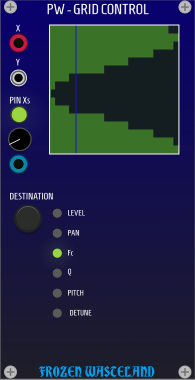
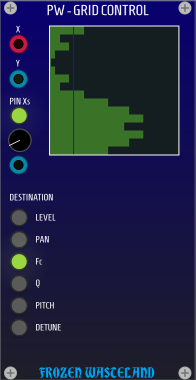
gce layout update

diff --git a/src/PWGridControlExpander.cpp b/src/PWGridControlExpander.cpp
@@ -11,7 +11,12 @@ struct PWGridControlExpander : Module {
     enum ParamIds {
         PIN_X_AXIS_MODE_PARAM,
         X_AXIS_PIN_POS_PARAM,
-        DESTINATION_PARAM,
+        DESTINATION_LEVEL_PARAM,
+        DESTINATION_PAN_PARAM,
+        DESTINATION_FC_PARAM,
+        DESTINATION_Q_PARAM,
+        DESTINATION_PITCH_PARAM,
+        DESTINATION_DETUNE_PARAM,
 		NUM_PARAMS
 	};
 
@@ -46,9 +51,9 @@ struct PWGridControlExpander : Module {
 
     OneDimensionalCells *gridCells;
 
-    dsp::SchmittTrigger pinXAxisModeTrigger,destinationTrigger;
+    dsp::SchmittTrigger pinXAxisModeTrigger,destinationTrigger[6];
     uint8_t pinXAxisMode = 0;
-    uint8_t destination = 0;
+    uint8_t destination = 1;
 
 
 	
@@ -104,24 +109,12 @@ struct PWGridControlExpander : Module {
     }
 
     void onReset() override {
+        
+        destination = 1;
+        pinXAxisMode = 0;
 
-        // delayRange = 2;
-
-        // // window function
-        // windowFunctionId = 4;
-
-        // attenuationLinked = false;
-        // delayTimeLinked = false;
-        // feedbackLinked = false;
-
-        // pinAttenuation0s = false;
-        // pinDelayTime0s = false;
-        // pinFeedback0s = false;
-
-        // // reset the cells
-        // attenuationCells->reset();
-        // delayTimeCells->reset();
-        // feedbackCells->reset();
+        // reset the cells
+        gridCells->reset();
     }
 
 
@@ -179,8 +172,10 @@ struct PWGridControlExpander : Module {
         gridCells->shiftX = gridShiftX;
         gridCells->shiftY = gridShiftY;
 
-        if (destinationTrigger.process(params[DESTINATION_PARAM].getValue())) {
-            destination = (destination + 1) % 6;
+        for(int i=0;i<6;i++) {
+            if (destinationTrigger[i].process(params[DESTINATION_LEVEL_PARAM+i].getValue())) {
+                destination = i;
+            }
         }
         for(int i=0;i<6;i++) {
             if(i!=destination) {
@@ -336,13 +331,18 @@ struct PWGridControlExpanderWidget : ModuleWidget {
         }
 
 
-        addParam(createParam<CKD6>(Vec(14,205), module, PWGridControlExpander::DESTINATION_PARAM));
-        addChild(createLight<MediumLight<RedGreenBlueLight>>(Vec(52.5, 209), module, PWGridControlExpander::DESTINATION_LEVEL_LIGHT));
-        addChild(createLight<MediumLight<RedGreenBlueLight>>(Vec(52.5, 229), module, PWGridControlExpander::DESTINATION_PAN_LIGHT));
-        addChild(createLight<MediumLight<RedGreenBlueLight>>(Vec(52.5, 249), module, PWGridControlExpander::DESTINATION_FC_LIGHT));
-        addChild(createLight<MediumLight<RedGreenBlueLight>>(Vec(52.5, 269), module, PWGridControlExpander::DESTINATION_Q_LIGHT));
-        addChild(createLight<MediumLight<RedGreenBlueLight>>(Vec(52.5, 289), module, PWGridControlExpander::DESTINATION_PITCH_LIGHT));
-        addChild(createLight<MediumLight<RedGreenBlueLight>>(Vec(52.5, 309), module, PWGridControlExpander::DESTINATION_DETUNE_LIGHT));
+        addParam(createParam<LEDButton>(Vec(10,208), module, PWGridControlExpander::DESTINATION_LEVEL_PARAM));
+        addChild(createLight<LargeLight<RedGreenBlueLight>>(Vec(11.5, 209.5), module, PWGridControlExpander::DESTINATION_LEVEL_LIGHT));
+        addParam(createParam<LEDButton>(Vec(10,230), module, PWGridControlExpander::DESTINATION_PAN_PARAM));
+        addChild(createLight<LargeLight<RedGreenBlueLight>>(Vec(11.5, 231.5), module, PWGridControlExpander::DESTINATION_PAN_LIGHT));
+        addParam(createParam<LEDButton>(Vec(10,252), module, PWGridControlExpander::DESTINATION_FC_PARAM));
+        addChild(createLight<LargeLight<RedGreenBlueLight>>(Vec(11.5, 253.5), module, PWGridControlExpander::DESTINATION_FC_LIGHT));
+        addParam(createParam<LEDButton>(Vec(10,274), module, PWGridControlExpander::DESTINATION_Q_PARAM));
+        addChild(createLight<LargeLight<RedGreenBlueLight>>(Vec(11.5, 275.5), module, PWGridControlExpander::DESTINATION_Q_LIGHT));
+        addParam(createParam<LEDButton>(Vec(10,296), module, PWGridControlExpander::DESTINATION_PITCH_PARAM));
+        addChild(createLight<LargeLight<RedGreenBlueLight>>(Vec(11.5, 297.5), module, PWGridControlExpander::DESTINATION_PITCH_LIGHT));
+        addParam(createParam<LEDButton>(Vec(10,318), module, PWGridControlExpander::DESTINATION_DETUNE_PARAM));
+        addChild(createLight<LargeLight<RedGreenBlueLight>>(Vec(11.5, 319.5), module, PWGridControlExpander::DESTINATION_DETUNE_LIGHT));
 
     
 		//addChild(createLight<LargeLight<GreenLight>>(Vec(190, 284), module, QuadGrooveExpander::CONNECTED_LIGHT));
